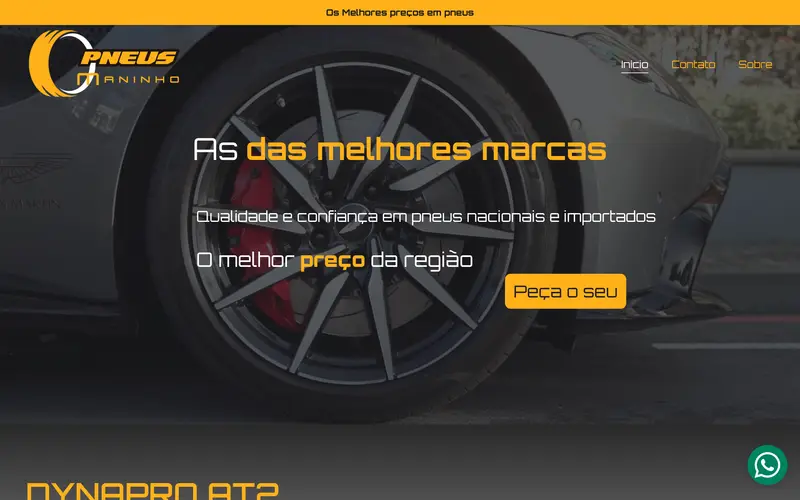
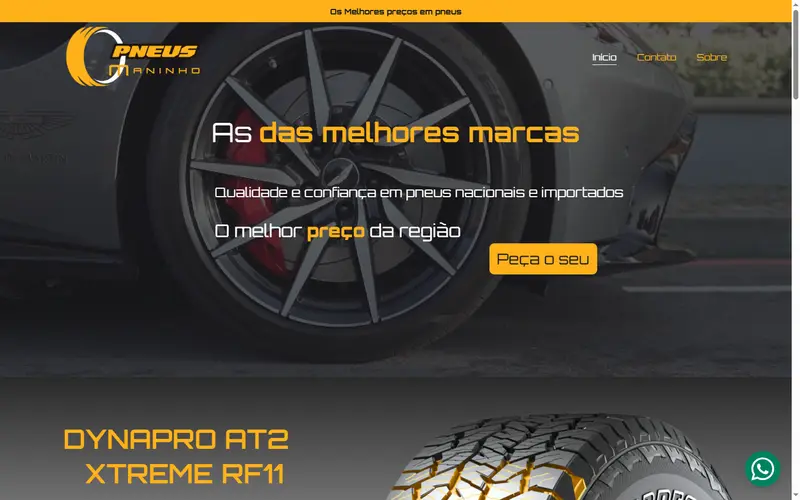
Fase 2: corrige as 10 capas do portfolio (2 quebradas + 4 sem capa)
Auditoria visual encontrou: agentop.webp sem CSS (texto puro), sorteio.webp com popup+banner de cookies cobrindo o site, pneusmaninho.webp cortando texto na base. Recapturados via Chrome DevTools MCP (espera CSS/fontes, fecha overlays, crop correto).

4 projetos sem URL publica (marido, unixx, packslog) + nutri (app renderiza em branco p/ captura) ganharam card de marca desenhado (SVG->WebP, cor propria, sem pretender ser screenshot).

Bugs corrigidos: exclusao hard-coded do nutri removida; ImageSlot reseta estado de erro ao trocar src; categoria 'Marketing' removida do filtro (nenhum projeto a tinha, dava grid vazio); placeholder falso 'Foto do time/estudio' trocado por composicao de marca honesta (nao finge ser foto).

diff --git a/components/site/HypergrowSite.tsx b/components/site/HypergrowSite.tsx
@@ -93,6 +93,9 @@ function cardGlow(color) {
 
 function ImageSlot({ placeholder, src }) {
   const [ok, setOk] = useState(true);
+  // Reseta o estado de erro quando o src muda — sem isso, uma imagem que falhou
+  // uma vez ficava presa no fallback mesmo trocando para outro src válido.
+  useEffect(() => { setOk(true); }, [src]);
   return (
     <>
       {src && ok && (
@@ -355,7 +358,7 @@ function Differentiators() {
 
 /* ───────────────────────── Portfolio + Process ───────────────────────── */
 function Portfolio() {
-  const cats = ["Todos", "E-commerce", "Websites", "Marketing", "Sistemas", "Aplicativos", "IA", "Automações"];
+  const cats = ["Todos", "E-commerce", "Websites", "Sistemas", "Aplicativos", "IA", "Automações"];
   const [active, setActive] = useState("Todos");
   const projects = [
     { id: "clicouenviou", name: "Clicou Enviou", url: "https://www.clicouenviou.com.br", cat: ["E-commerce", "Sistemas", "Automações"], tags: ["Logística", "Plataforma"], grad: "linear-gradient(150deg,#0FA968,#0B7A4C)", desc: "Plataforma que reúne múltiplas transportadoras num único painel para simplificar os envios do e-commerce." },
@@ -383,7 +386,8 @@ function Portfolio() {
           {shown.map((p) => (
             <article key={p.id} className="glowcard neon-card reveal in" {...cardGlow("rgba(11,122,76,0.4)")} style={{ borderRadius: 20, overflow: "hidden", display: "flex", flexDirection: "column" }}>
               <div style={{ position: "relative", aspectRatio: "16/10", background: p.grad }}>
-                <ImageSlot placeholder={`Print do ${p.name}`} src={p.url && p.id !== "nutri" ? `/portfolio/${p.id}.webp` : undefined} />
+                {/* Todos os 10 projetos têm capa real em /portfolio/ — print do site (6) ou card de marca desenhado (4, sem URL pública). */}
+                <ImageSlot placeholder={`Print do ${p.name}`} src={`/portfolio/${p.id}.webp`} />
                 <div style={{ position: "absolute", inset: 0, background: "linear-gradient(180deg, transparent 50%, rgba(5,11,26,0.55))", pointerEvents: "none" }}></div>
                 <div style={{ position: "absolute", left: 14, top: 14, display: "flex", gap: 6, pointerEvents: "none" }}>
                   {p.tags.map((t) => <span key={t} style={{ font: "600 10px var(--font-sans)", letterSpacing: "0.04em", textTransform: "uppercase", color: "#fff", padding: "4px 9px", borderRadius: 999, background: "rgba(5,11,26,0.55)", backdropFilter: "blur(8px)", border: "1px solid rgba(255,255,255,0.2)" }}>{t}</span>)}
@@ -506,8 +510,13 @@ function About() {
               {stats.map((s) => (<div key={s.l}><div style={{ font: "800 38px/1 var(--font-display)", letterSpacing: "-0.03em", color: s.c, textShadow: `0 0 26px ${s.c}66` }}>{s.v}</div><div style={{ font: "500 13px var(--font-sans)", color: "rgba(255,255,255,0.6)", marginTop: 6 }}>{s.l}</div></div>))}
             </div>
           </div>
-          <div style={{ position: "relative", minHeight: 380, background: "linear-gradient(160deg,#0A7048,#0B7A4C 60%,#C4763C)" }} className="about-photo">
-            <ImageSlot placeholder="Foto do time / estúdio" />
+          {/* Composição de marca (não uma foto — a HyperGrow ainda não tem fotos reais do time
+              para usar aqui; um placeholder de "foto" seria enganoso). */}
+          <div style={{ position: "relative", minHeight: 380, display: "flex", alignItems: "center", justifyContent: "center", overflow: "hidden", background: "linear-gradient(160deg,#0A7048,#0B7A4C 60%,#C4763C)" }} className="about-photo">
+            <span aria-hidden style={{ position: "absolute", inset: 0, backgroundImage: "linear-gradient(rgba(255,255,255,0.06) 1px, transparent 1px), linear-gradient(90deg, rgba(255,255,255,0.06) 1px, transparent 1px)", backgroundSize: "38px 38px", WebkitMaskImage: "radial-gradient(70% 70% at 50% 50%, #000, transparent 82%)", maskImage: "radial-gradient(70% 70% at 50% 50%, #000, transparent 82%)" }}></span>
+            <span aria-hidden style={{ position: "absolute", width: 220, height: 220, borderRadius: "50%", border: "1.5px solid rgba(255,255,255,0.18)" }}></span>
+            <span aria-hidden style={{ position: "absolute", width: 300, height: 300, borderRadius: "50%", border: "1px solid rgba(255,255,255,0.1)" }}></span>
+            <div style={{ position: "relative", transform: "scale(2.1)" }}><Logo height={34} showWord={false} /></div>
             <div style={{ position: "absolute", inset: 0, background: "linear-gradient(110deg, rgba(13,16,19,0.5), transparent 40%)", pointerEvents: "none" }}></div>
           </div>
         </div>
